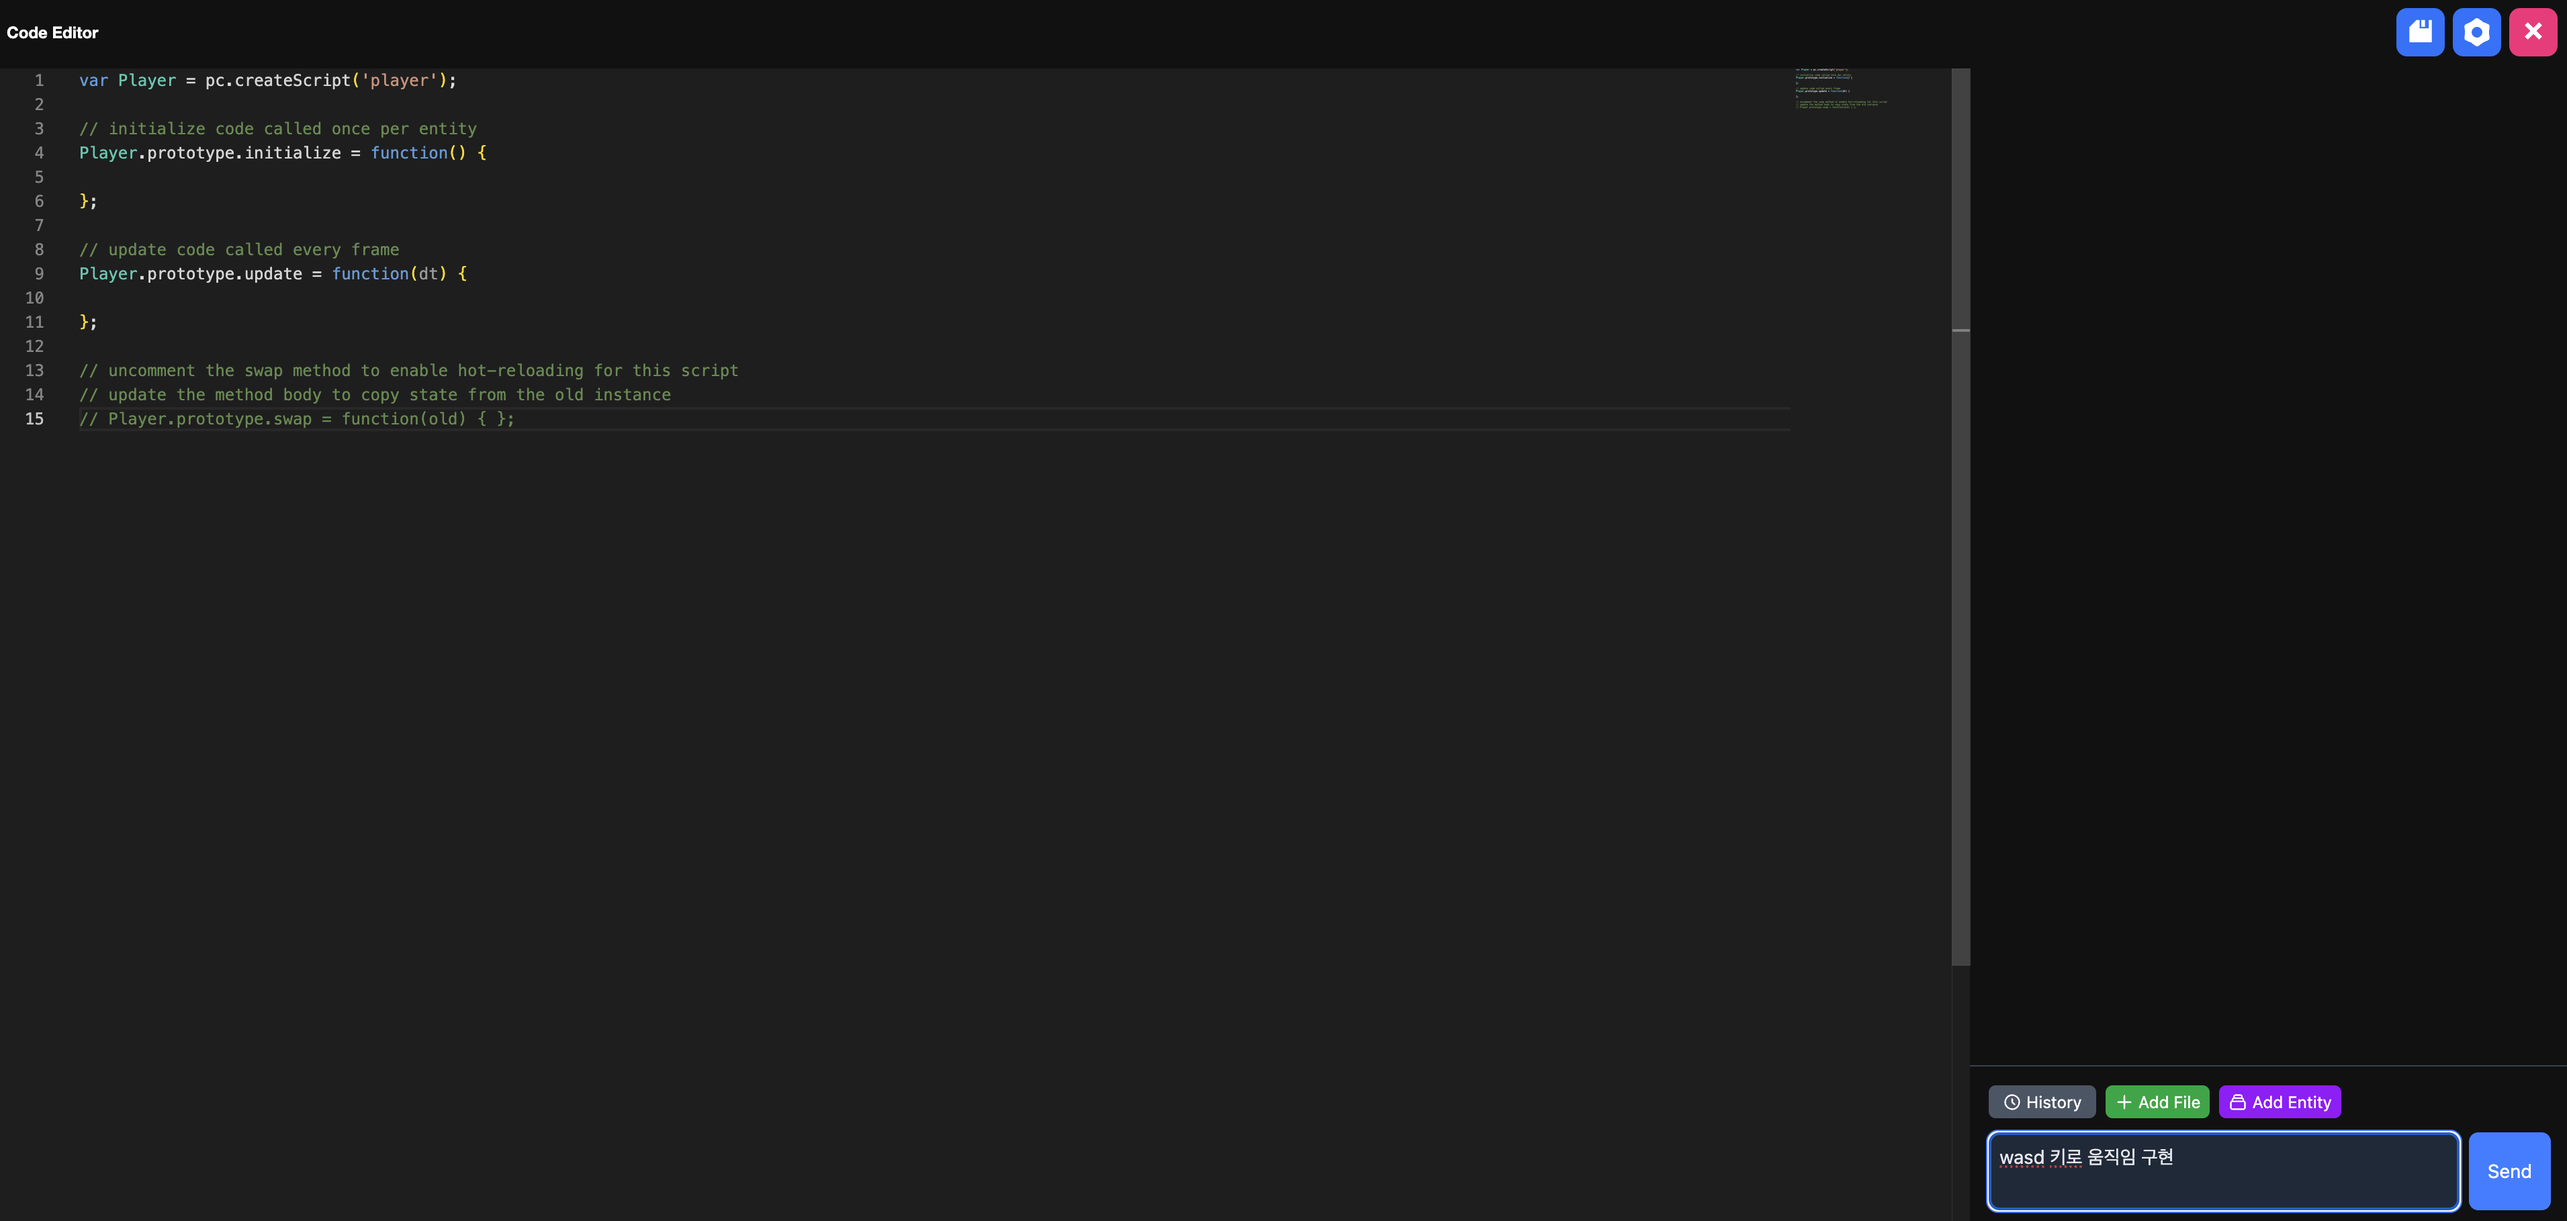
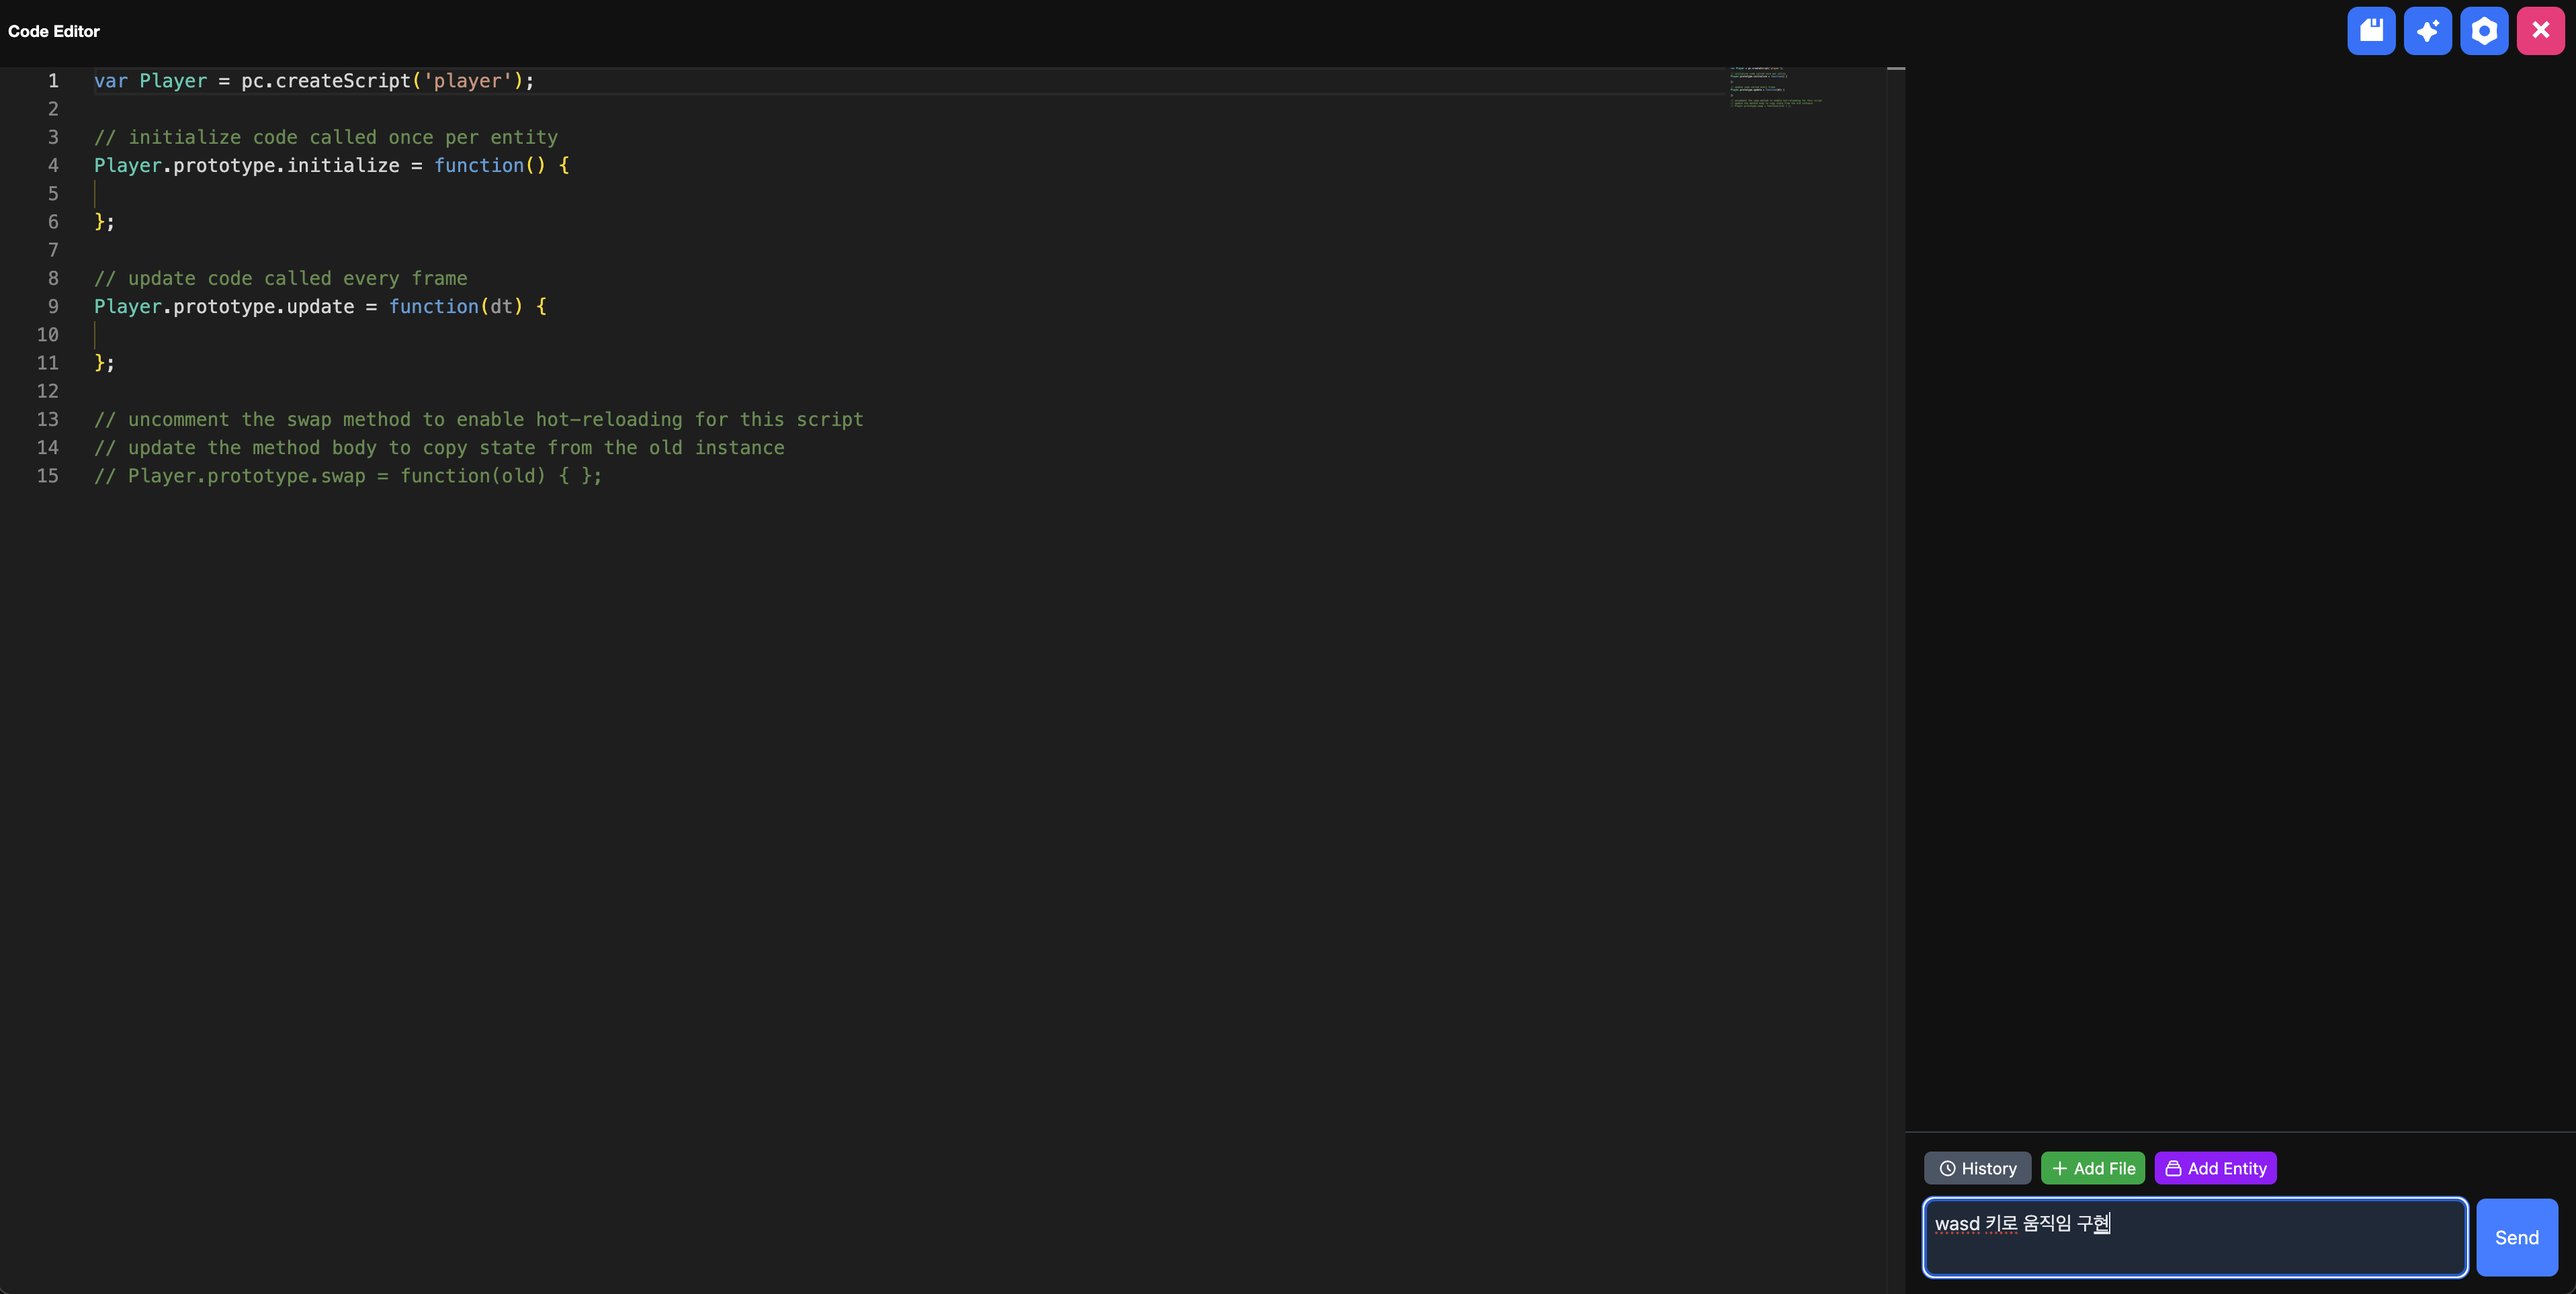
fit: 프로젝트 생성, 코드 에디터

diff --git a/i18n/en/docusaurus-plugin-content-docs/current/usage-guide/code-generation.md b/i18n/en/docusaurus-plugin-content-docs/current/usage-guide/code-generation.md
@@ -8,50 +8,54 @@ sidebar_label: Code Generation
 
 Learn how to automatically generate game logic and scripts using OasisW's AI code generation feature.
 
-## 1. Script Creation and Feature Description
+## 1. Creating a Script and Feature Overview
 
-1. Create a script asset in the **Assets view**.
+1. Create a script asset from the **Asset View**.
 
 ![Code](/img/usage-guide/13_1.png)
 
-2. Double-click the created script asset to open the code editor.
+2. Double-click the created script asset to open it in the code editor.
 
 ![Code](/img/usage-guide/13_2.png)
 
-### 1. Settings
+### 1. Code Assistant
 
-You can change the editor theme.
+You can open and close the AI prompt window.
+
+### 2. Settings
+
+Change the editor theme.
 
 ![Code](/img/usage-guide/13_12.png)
 
-### 2. History
+### 3. History
 
-You can view and manage the history of code generated by AI.
+Check and manage the history of code generated by AI.
 
 ![Code](/img/usage-guide/13_3.png)
 
-* **Restore**: Reverts to the state before application.
+* **Restore**: Revert to the state before applying changes.
 ![Code](/img/usage-guide/13_10.png)
 
-* **Delete**: Deletes the history.
+* **Delete**: Delete a history entry.
 ![Code](/img/usage-guide/13_4.png)
 
-### 3. Add File
+### 4. Add File
 
-You can add script files to reference.
+Add script files you want to reference.
 
 ![Code](/img/usage-guide/13_5.png)
 
-### 4. Add Entity
+### 5. Add Entity
 
-You can add entities to reference.
+Add entities to reference.
 
 ![Code](/img/usage-guide/13_6.png)
 
-## 2. Code Generation
+## 2. Generating Code
 
-1. Enter the command you want to implement in the prompt window and click the **Send button**.  
-   - Example: `"Implement WASD key movement"`  
+1. Enter the command you want to implement into the prompt window and click the **Send button**.  
+   - Example: `"Implement movement with WASD keys"`
 
 ![Image](/img/usage-guide/13_7.png)
 
@@ -59,14 +63,12 @@ You can add entities to reference.
 
 ![Image](/img/usage-guide/13_8.png)
 
-3. Use **Accept All/Revert buttons** to update the code.
+3. Use the **Undo All/Keep All buttons** to update the code.
 
 ![Image](/img/usage-guide/13_9.png)
 
-* **1. Save**: Applies the code without saving to history.
-* **2. Revert**: Reverts to the existing code instead of the generated code.
-![Image](/img/usage-guide/13_11.png)
-* **3. Accept All**: Saves to history and applies the generated code.
+* **Undo All**: Revert back to your original code (before the generated code).
+* **Keep All**: Save to history and apply the newly generated code.
 
 :::info
 **Additional Files**

diff --git a/i18n/en/docusaurus-plugin-content-docs/current/usage-guide/create-a-project.md b/i18n/en/docusaurus-plugin-content-docs/current/usage-guide/create-a-project.md
@@ -22,41 +22,42 @@ OasisW provides various templates to help you quickly start your project.
 
 ## 1. Creating a New Project
 
-### Creation Procedure
+### Steps to Create
 
-1. Enter a project name in Project Name.
-2. Set the project path in **Folder Path**.
+1. Enter the project name in the Project Name field.
+2. Set the project path in the **Folder Path** field.
 
 :::danger Note
-Project creation is not supported in **Safari**. Please use **Chrome** or **Edge** browser.  
-You must **allow file modification permissions** in the browser to use the editor.
+Project creation is not supported in **Safari**. Please use the **Chrome** or **Edge** browser.  
+You must **allow file edit permissions** in your browser to use the editor.
 :::
 
 ![Create](/img/usage-guide/0.png)
 
 3. Select a template in the Templates window.
-4. Click the Create Project button.
+4. Click the **Create Project** button.
 
 ### Template Types
 
 #### **Blank Project**
-- Minimal configuration including camera, lighting, sky, and basic shapes.
+- The minimal setup including camera, lights, sky, and basic shapes.
 - Sets up a basic 3D environment.
 - Suitable for projects starting from scratch.
 
-<!-- #### **Sliduck**
-- Sliding game template -->
+#### **Tetris**
+- 2D Tetris puzzle game template.
 
-#### **Hero Survival**
-- Survival game template.
+#### **Shooting**
+- 2D airplane shooting game template.
 
-#### **2048**
-- Number puzzle game template.
-
-#### **Tutorial**
-- Template created in tutorial videos.
+#### **Only Up!**
+- 3D platformer game template.
 
 ## 2. Opening an Existing Project
 
-1. Click the Open Project button.
-2. Select the folder where the OasisW project is saved.
+1. Click **PROJECTS**.
+2. Click **Open** on the desired project.
+
+## 3. Organization Settings
+
+In **ORGANIZATION**, select or browse the organization where you want to view or create projects.
